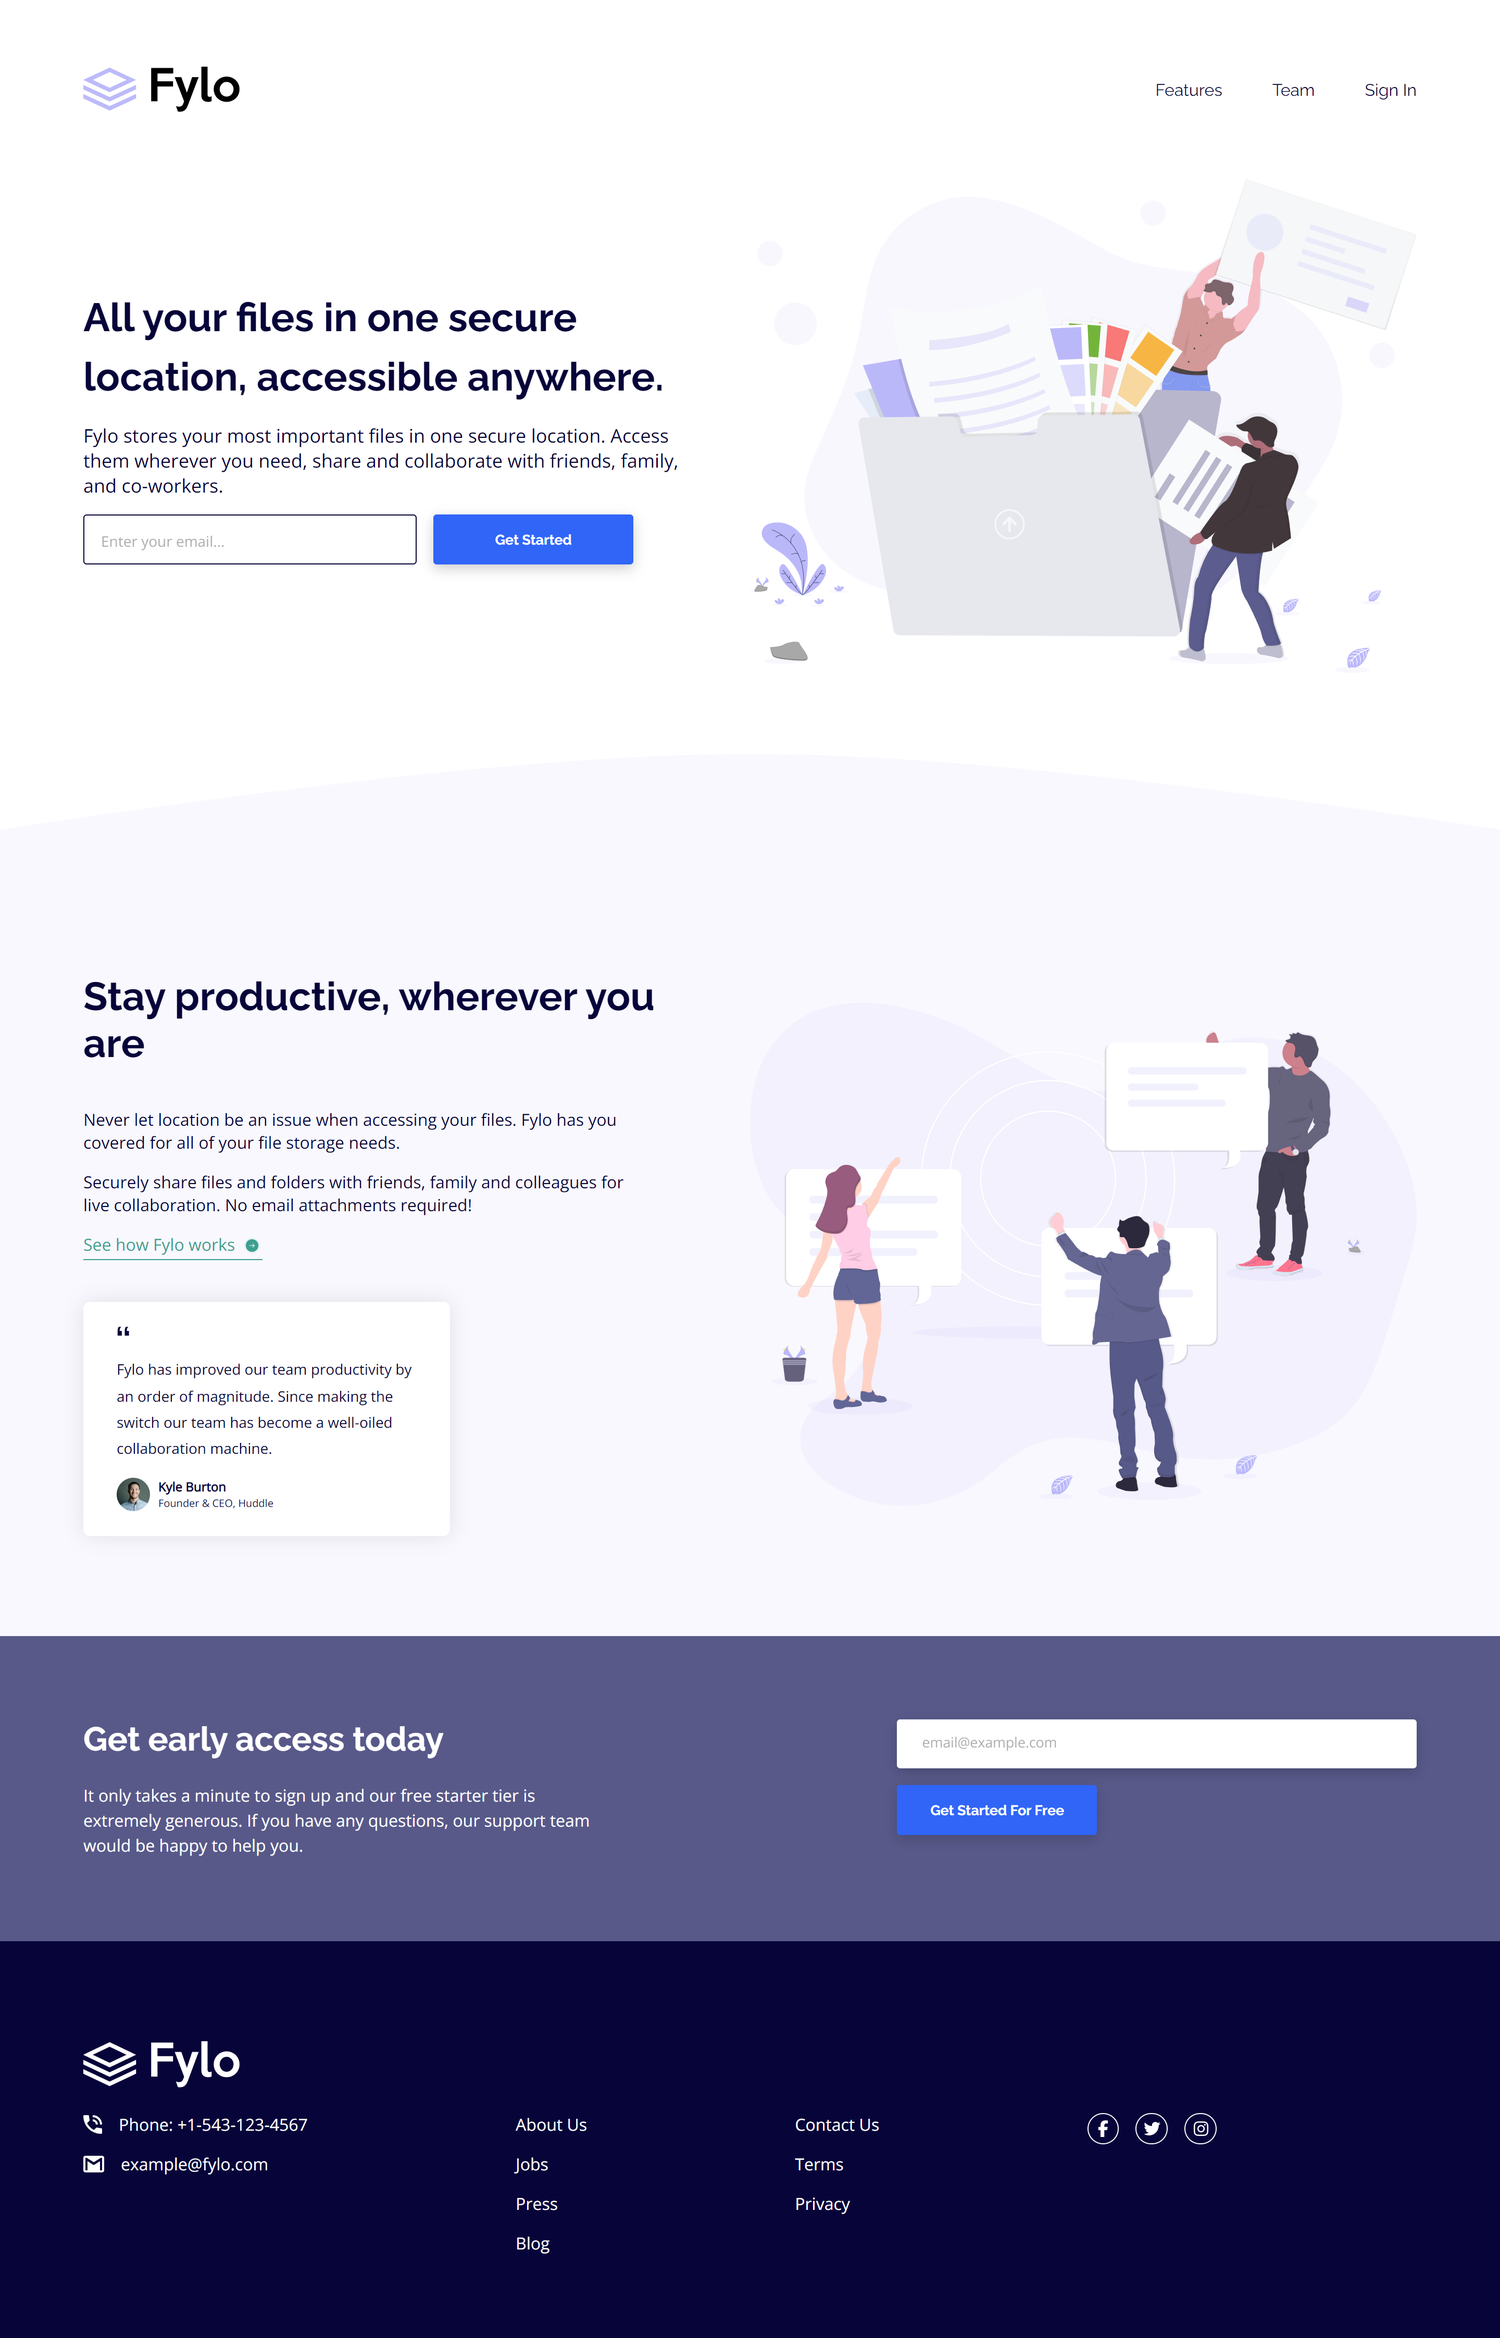
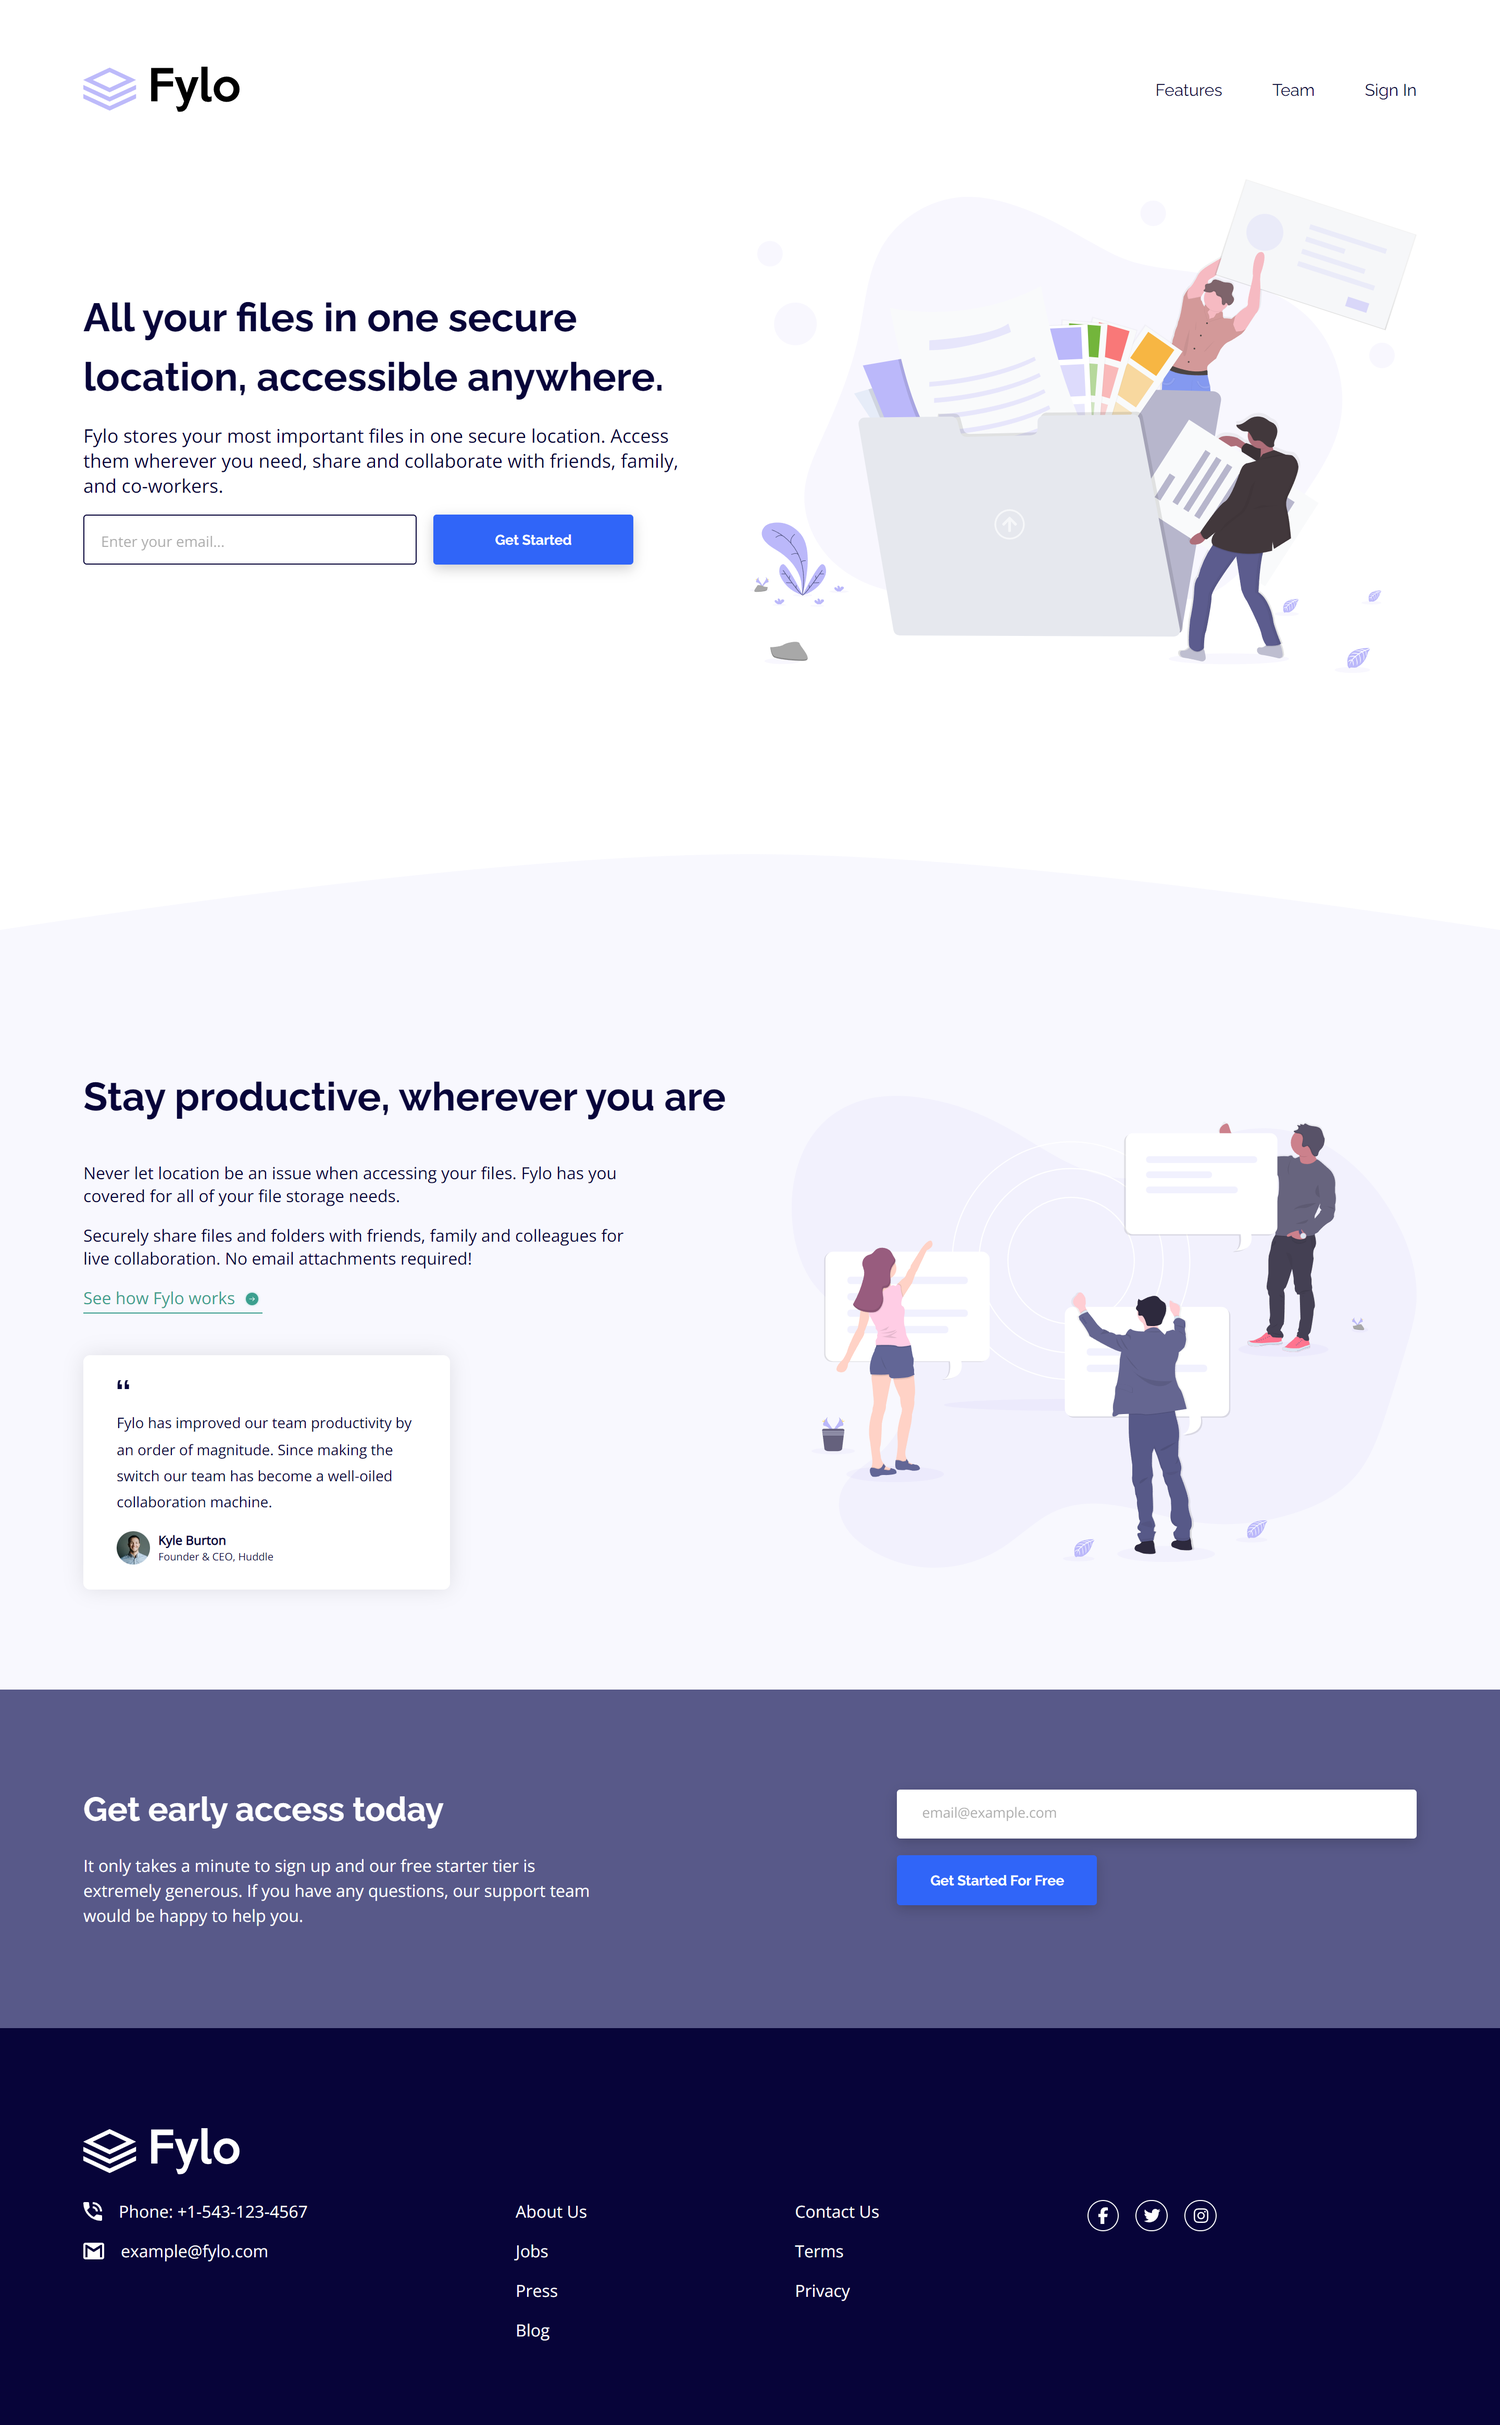
feat: improve accessibility and responsiveness

diff --git a/fylo-landing-page-with-two-column-layout-master/index.html b/fylo-landing-page-with-two-column-layout-master/index.html
@@ -147,7 +147,7 @@
         </ul>
         <ul class="footer-social-list">
           <li class="social-item">
-            <a class="social-link" href="#">
+            <a class="social-link" href="#" aria-label="facebook">
               <svg xmlns="http://www.w3.org/2000/svg" height="16" width="10" viewBox="0 0 320 512">
                 <path
                   fill="currentColor"
@@ -157,7 +157,7 @@
             </a>
           </li>
           <li class="social-item">
-            <a class="social-link" href="#">
+            <a class="social-link" href="#" aria-label="twitter">
               <svg xmlns="http://www.w3.org/2000/svg" height="16" width="16" viewBox="0 0 512 512">
                 <path
                   fill="currentColor"
@@ -167,7 +167,7 @@
             </a>
           </li>
           <li class="social-item">
-            <a class="social-link" href="#">
+            <a class="social-link" href="#" aria-label="instagram">
               <svg xmlns="http://www.w3.org/2000/svg" height="16" width="14" viewBox="0 0 448 512">
                 <path
                   fill="currentColor"

diff --git a/fylo-landing-page-with-two-column-layout-master/styles.css b/fylo-landing-page-with-two-column-layout-master/styles.css
@@ -91,7 +91,7 @@ main {
   width: 100%;
   display: flex;
   align-items: center;
-  padding-bottom: 12rem;
+  padding-bottom: 18rem;
   background-size: 100%;
   background-position: bottom;
   background-repeat: no-repeat;
@@ -272,7 +272,7 @@ main {
 .tertiary-section {
   gap: 18rem;
   display: flex;
-  padding-block: 5rem;
+  padding-block: 6rem;
   background-color: var(--desaturated-blue);
 }
 
@@ -399,6 +399,12 @@ footer {
 .social-link:hover {
   color: var(--hover-bright-blue);
   border-color: var(--hover-bright-blue);
+}
+
+@media (max-width: 1440px) {
+  .secondary-image {
+    max-width: 600px;
+  }
 }
 
 @media (max-width: 1240px) {
